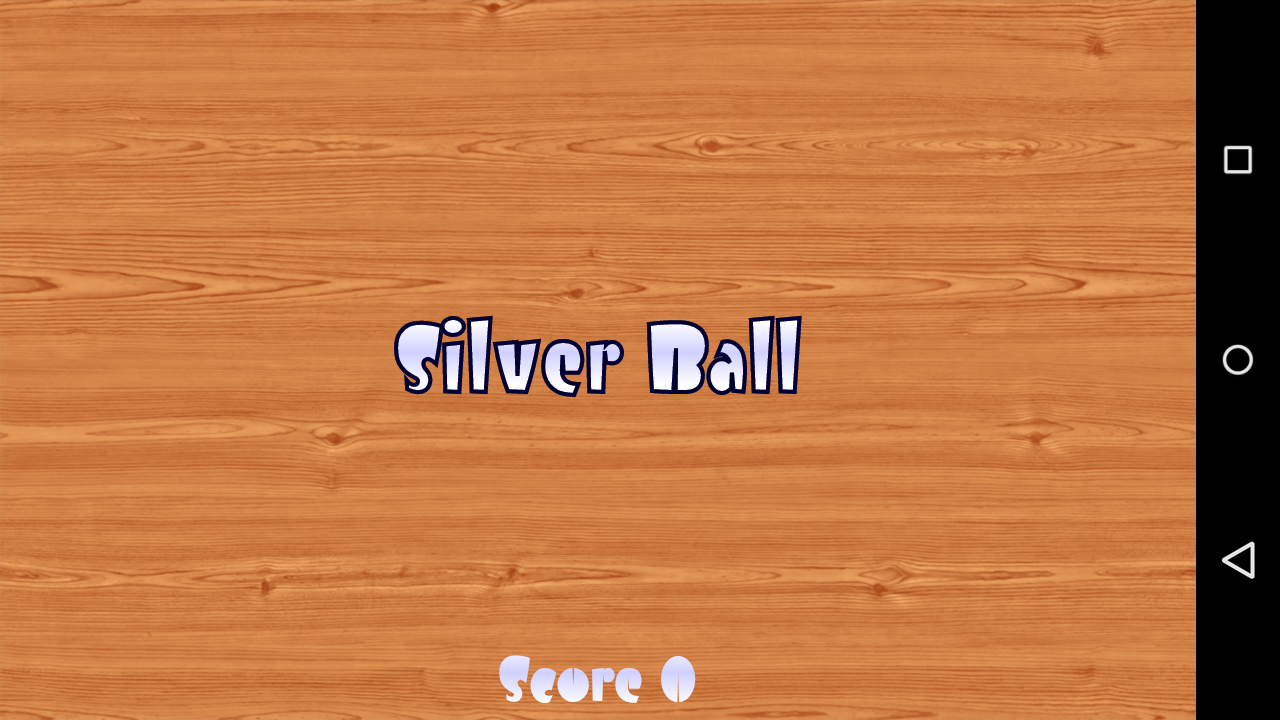
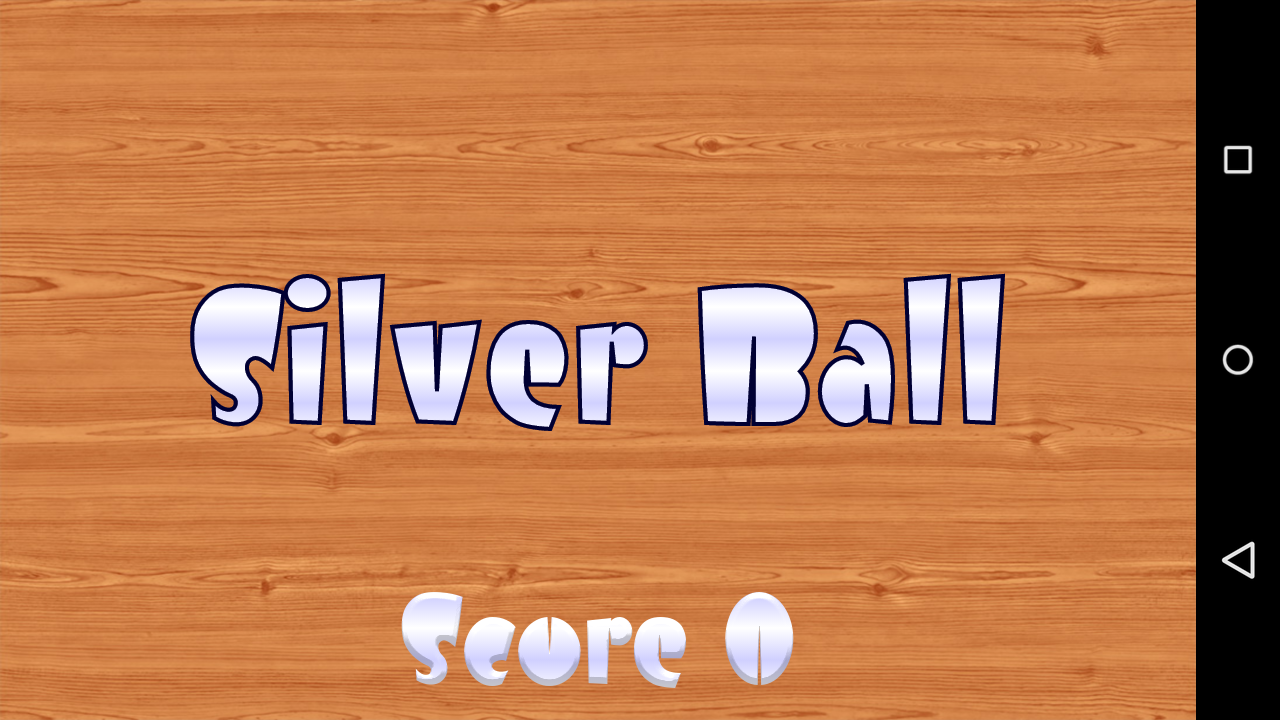
added emboss effect for score TextView

Changed region(s): [[0.125, 0.3667, 0.7812, 0.6111], [0.3125, 0.825, 0.625, 0.9778]]

diff --git a/SilverBall/src/main/java/de/spas/tools/BaseGameActivity.java b/SilverBall/src/main/java/de/spas/tools/BaseGameActivity.java
@@ -1,9 +1,11 @@
 package de.spas.tools;
 
 import android.app.Activity;
+import android.graphics.EmbossMaskFilter;
 import android.graphics.Paint;
 import android.graphics.Shader;
 import android.graphics.Typeface;
+import android.os.Build;
 import android.os.Bundle;
 import android.view.View;
 import android.widget.TextView;
@@ -40,20 +42,29 @@ public class BaseGameActivity extends Activity {
     }
 
 
-    protected void setTypeface(TextView v, String typefaceName) {
+    protected void applyTypeface(TextView v, String typefaceName) {
         Typeface t = getTypeface(typefaceName);
         if(t!=null) {
             v.setTypeface(t);
         }
     }
 
-    protected void setShader(TextView textView, String shaderName) {
+    protected void applyShader(TextView textView, String shaderName) {
         textView.getPaint().setShader(shaders.get(shaderName));
     }
 
-    protected void setOutline(TextView textView, float width) {
+    protected void applyOutline(TextView textView, float width) {
         textView.getPaint().setStyle(Paint.Style.STROKE);
         textView.getPaint().setStrokeWidth(scale(width));
+    }
+
+    protected void applyEmboss(TextView textView, float[] direction, float ambient,
+            float specular, float blurRadius) {
+        if (Build.VERSION.SDK_INT >= 11) {
+            textView.setLayerType(View.LAYER_TYPE_SOFTWARE, null);
+        }
+        EmbossMaskFilter filter = new EmbossMaskFilter(direction, ambient, specular, blurRadius);
+        textView.getPaint().setMaskFilter(filter);
     }
 
 

diff --git a/SilverBall/src/main/java/de/spas/silverball/MainActivity.java b/SilverBall/src/main/java/de/spas/silverball/MainActivity.java
@@ -43,12 +43,13 @@ public class MainActivity extends BaseGameActivity implements View.OnClickListen
                 0, 0, 0, scale(16),
                 getResources().getColor(R.color.silver1), getResources().getColor(R.color.silver2),
                 Shader.TileMode.MIRROR));
-        setTypeface((TextView) findViewById(R.id.title), FONTNAME);
-        setTypeface((TextView) findViewById(R.id.title_back), FONTNAME);
-        setShader((TextView) findViewById(R.id.title_back), "silver");
-        setOutline((TextView) findViewById(R.id.title), 2);
-        setTypeface((TextView) findViewById(R.id.score), FONTNAME);
-        setShader((TextView) findViewById(R.id.score), "silver");
+        applyTypeface((TextView) findViewById(R.id.title), FONTNAME);
+        applyTypeface((TextView) findViewById(R.id.title_back), FONTNAME);
+        applyShader((TextView) findViewById(R.id.title_back), "silver");
+        applyOutline((TextView) findViewById(R.id.title), 2);
+        applyTypeface((TextView) findViewById(R.id.score), FONTNAME);
+        applyShader((TextView) findViewById(R.id.score), "silver");
+        applyEmboss((TextView) findViewById(R.id.score),new float[] { 0f, scale(1f), scale(0.5f) }, 0.8f, 3f, scale(3f));
         findViewById(R.id.title).setOnClickListener(this);
         container = (ViewGroup) findViewById(R.id.container);
         //gameView = new GameView(this);
